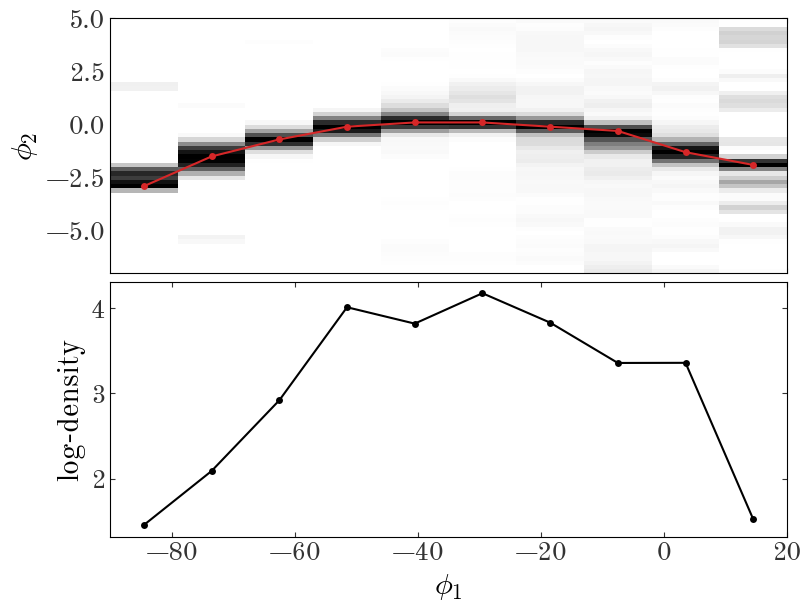
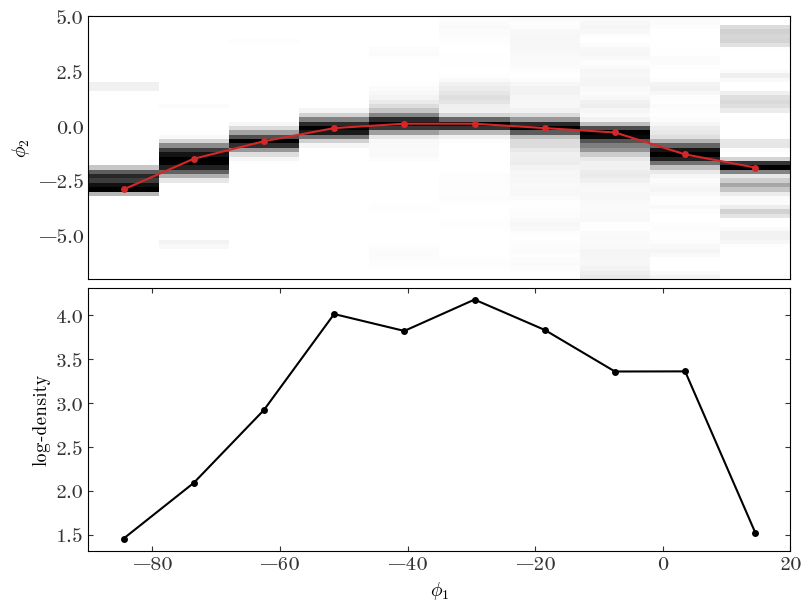
deploy: adrn-blog/adrian.pw@7c0f28b8d4909e34023a87e8b9eba2962363c0d9

diff --git a/blog/flexible-density-model-jax/index.html b/blog/flexible-density-model-jax/index.html
@@ -514,7 +514,7 @@ plt.ylabel(&quot;density $n(z)$&quot;)
 
 plt.legend(loc=&quot;best&quot;)
 </code></pre>
-<pre><code>&lt;matplotlib.legend.Legend at 0x7f7ff4267070&gt;
+<pre><code>&lt;matplotlib.legend.Legend at 0x7fdbb428e680&gt;
 </code></pre>
 <p><img src="output_33_1.png" alt="png"></p>
 <p>We can now run the optimizer with our new spline model for the density:</p>
@@ -575,7 +575,7 @@ plt.ylabel(&quot;density $n(z)$&quot;)
 
 plt.legend(loc=&quot;best&quot;)
 </code></pre>
-<pre><code>&lt;matplotlib.legend.Legend at 0x7f80073c0130&gt;
+<pre><code>&lt;matplotlib.legend.Legend at 0x7fdbb428fac0&gt;
 </code></pre>
 <p><img src="output_37_1.png" alt="png"></p>
 <p>Excellent - this also looks like a great fit! Unexpectedly, weird things happen outside of the range where we have data, but here the splines will largely be unconstrained.</p>
@@ -1137,7 +1137,7 @@ for ax in axes[-1]:
 
 ax.legend(loc=&quot;best&quot;, fontsize=14)
 </code></pre>
-<pre><code>&lt;matplotlib.legend.Legend at 0x7f7fc884c520&gt;
+<pre><code>&lt;matplotlib.legend.Legend at 0x7fdb741f1d20&gt;
 </code></pre>
 <p><img src="output_87_1.png" alt="png"></p>
 <p>We can also look at the 2D density computed from our optimized parameters and visually compare to the data:</p>
